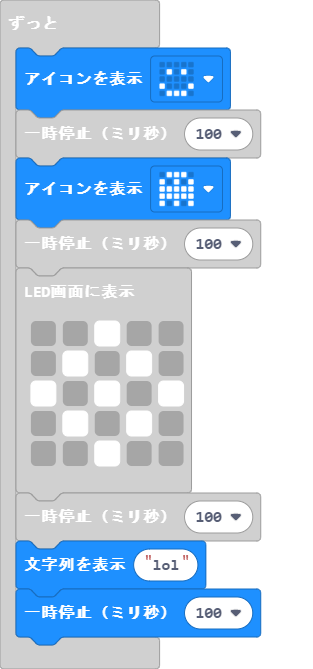
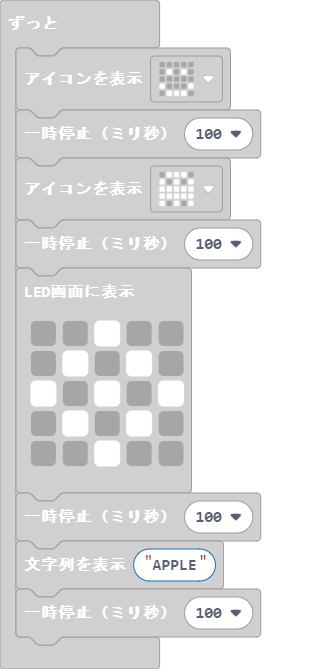
更新 main.blocks, main.ts

Changed region(s): [[0.0288, 0.8072, 0.8626, 0.9865], [0.0288, 0.0598, 0.7476, 0.1794], [0.0288, 0.2093, 0.7476, 0.3587]]

diff --git a/main.ts b/main.ts
@@ -11,6 +11,6 @@ basic.forever(function () {
         . . # . .
         `)
     basic.pause(100)
-    basic.showString("lol")
+    basic.showString("APPLE")
     basic.pause(100)
 })
